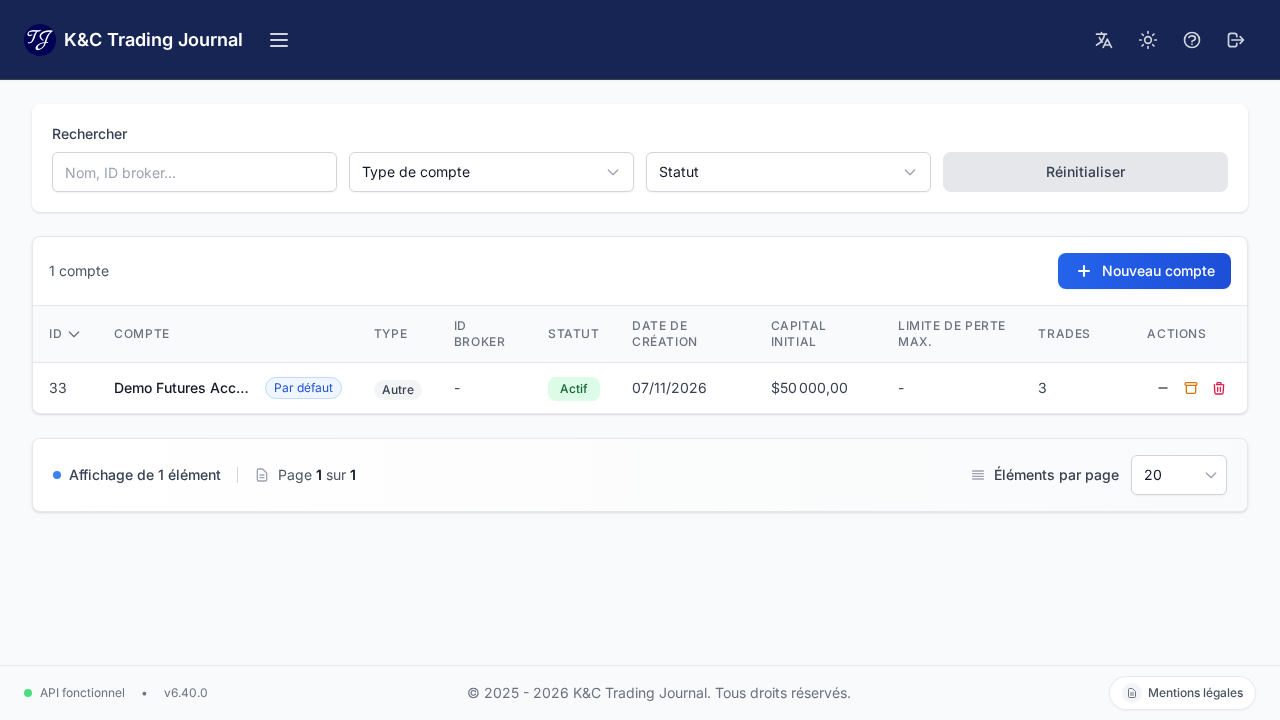
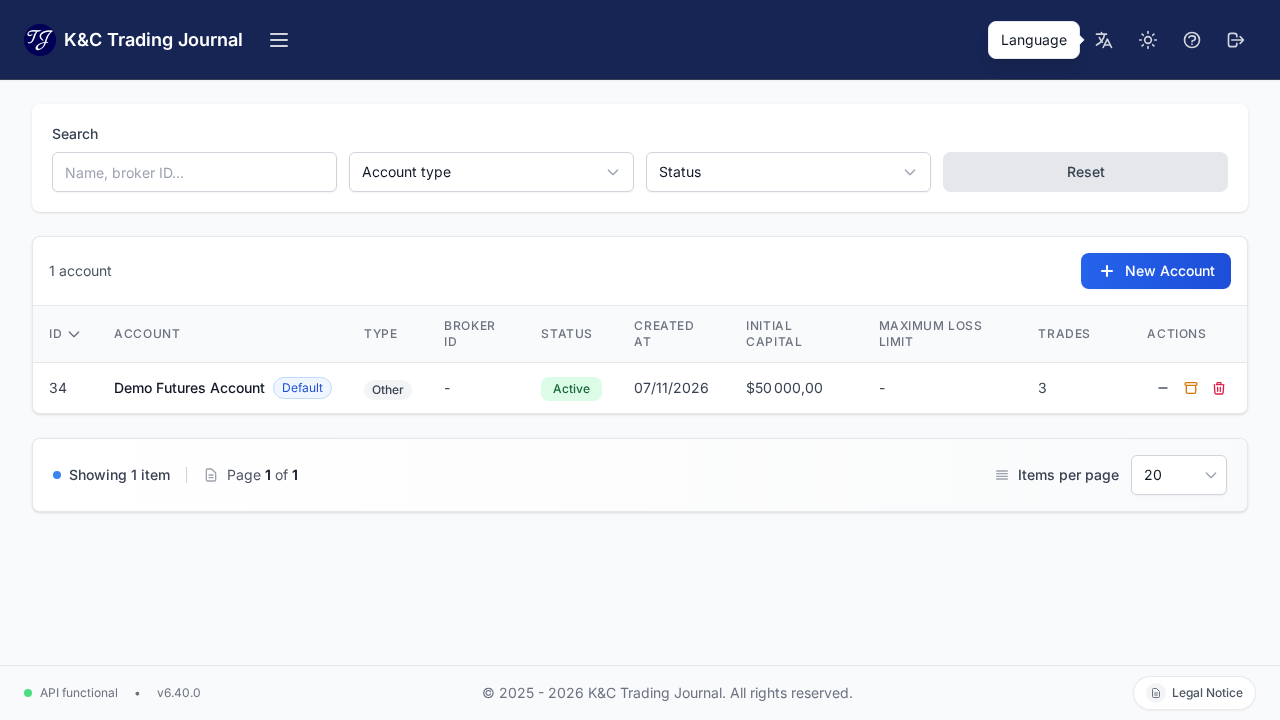
fix(help): Captures tutos liées à la langue UI
- Viewer : recharge l’image au changement de locale + fallback EN/FR
- Playwright : bascule réelle via le sélecteur Header (plus seulement ?lang=)
- Régénère les PNG FR/EN distincts pour getting-started

diff --git a/e2e/tests/tutorials/screenshots.spec.ts b/e2e/tests/tutorials/screenshots.spec.ts
@@ -13,6 +13,8 @@
  *        cd e2e && npm run tutorials:screenshots
  *
  * Sortie : frontend/public/tutorials/<locale>/<slug>-step-<n>.png
+ * Chaque locale est capturée après bascule réelle de la langue app (Header),
+ * pas seulement via ?lang= (écrasé par les préférences une fois connecté).
  */
 import fs from 'node:fs';
 import path from 'node:path';
@@ -25,33 +27,16 @@ const DEMO_PASSWORD =
 const repoRoot = path.resolve(__dirname, '../../..');
 const outRoot = path.join(repoRoot, 'frontend/public/tutorials');
 
-const LOCALES = ['fr', 'en'] as const;
+const LOCALES = [
+  { code: 'fr', label: 'Français' },
+  { code: 'en', label: 'English' },
+] as const;
 
-const STEPS: Array<{ slug: string; step: number; hash: string; ready: string }> = [
-  {
-    slug: 'getting-started',
-    step: 1,
-    hash: '#accounts',
-    ready: 'body',
-  },
-  {
-    slug: 'getting-started',
-    step: 2,
-    hash: '#trades',
-    ready: 'body',
-  },
-  {
-    slug: 'getting-started',
-    step: 3,
-    hash: '#dashboard',
-    ready: 'body',
-  },
-  {
-    slug: 'getting-started',
-    step: 4,
-    hash: '#daily-journal',
-    ready: 'body',
-  },
+const STEPS: Array<{ slug: string; step: number; hash: string }> = [
+  { slug: 'getting-started', step: 1, hash: '#accounts' },
+  { slug: 'getting-started', step: 2, hash: '#trades' },
+  { slug: 'getting-started', step: 3, hash: '#dashboard' },
+  { slug: 'getting-started', step: 4, hash: '#daily-journal' },
 ];
 
 async function dismissOverlays(page: import('@playwright/test').Page) {
@@ -83,34 +68,68 @@ async function login(page: import('@playwright/test').Page) {
   await dismissOverlays(page);
 }
 
+/** Bascule la langue via le sélecteur Header (persiste aussi côté préférences). */
+async function setUiLanguage(
+  page: import('@playwright/test').Page,
+  locale: (typeof LOCALES)[number]
+) {
+  const langButton = page.getByRole('button', { name: /Language|Langue|Idioma|Sprache/i }).first();
+  await langButton.click();
+  await page.getByRole('button', { name: locale.label }).click();
+  await page.waitForTimeout(800);
+  // Vérifie que i18n a bien basculé
+  const htmlLang = await page.evaluate(() => document.documentElement.lang || '');
+  // Certaines configs ne posent pas lang sur <html> ; on attend aussi un libellé UI
+  if (locale.code === 'en') {
+    await expect(page.getByRole('button', { name: /Help/i }).first()).toBeVisible({
+      timeout: 15_000,
+    });
+  } else {
+    await expect(page.getByRole('button', { name: /Aide/i }).first()).toBeVisible({
+      timeout: 15_000,
+    });
+  }
+  void htmlLang;
+}
+
 test.describe('Tutorials screenshots (manual)', () => {
   test('capture P0 getting-started FR+EN', async ({ page, browserName }) => {
     test.skip(browserName !== 'chromium', 'Captures Chromium only');
 
     await login(page);
 
+    const digestsByLocale: Record<string, string[]> = {};
+
     for (const locale of LOCALES) {
-      // Prefer URL lang when supported; otherwise change via preferences UI is heavy —
-      // we capture DOM in current locale and write under both folders with a note that
-      // EN may need a second pass after switching language in Settings.
-      const localeDir = path.join(outRoot, locale);
+      await setUiLanguage(page, locale);
+
+      const localeDir = path.join(outRoot, locale.code);
       fs.mkdirSync(localeDir, { recursive: true });
+      digestsByLocale[locale.code] = [];
 
       for (const step of STEPS) {
-        await page.goto(`/${locale === 'en' ? '?lang=en' : '?lang=fr'}${step.hash}`);
+        await page.goto(`/${step.hash}`);
         await page.waitForLoadState('networkidle');
-        await page.waitForTimeout(800);
+        await page.waitForTimeout(1000);
+        await dismissOverlays(page);
+
         const target = path.join(localeDir, `${step.slug}-step-${step.step}.png`);
         await page.screenshot({
           path: target,
           fullPage: false,
         });
         expect(fs.existsSync(target)).toBeTruthy();
+        digestsByLocale[locale.code].push(fs.readFileSync(target).toString('binary'));
       }
     }
 
-    // Hub aide (sanity)
-    await page.goto('/?lang=fr#help');
+    // Les jeux FR et EN ne doivent pas être identiques (UI localisée).
+    const frJoined = digestsByLocale.fr.join('|');
+    const enJoined = digestsByLocale.en.join('|');
+    expect(frJoined).not.toEqual(enJoined);
+
+    await setUiLanguage(page, LOCALES[0]);
+    await page.goto('/#help');
     await expect(page.getByTestId('help-page')).toBeVisible({ timeout: 30_000 });
     await page.getByTestId('help-card-getting-started').click();
     await expect(page.getByTestId('tutorial-viewer-getting-started')).toBeVisible();

diff --git a/frontend/src/components/help/TutorialViewer.tsx b/frontend/src/components/help/TutorialViewer.tsx
@@ -4,7 +4,7 @@ import {
   TutorialDef,
   TutorialProgressEntry,
   TutorialStatus,
-  tutorialImagePath,
+  tutorialImageCandidates,
 } from '../../tutorials/catalog';
 
 export interface TutorialViewerProps {
@@ -31,20 +31,27 @@ const TutorialViewer: React.FC<TutorialViewerProps> = ({
   );
   const [stepIndex, setStepIndex] = useState(initialIndex);
   const [imgFailed, setImgFailed] = useState(false);
+  const [imgCandidateIndex, setImgCandidateIndex] = useState(0);
+
+  const locale = i18n.language?.split('-')[0] || 'fr';
 
   useEffect(() => {
     setStepIndex(initialIndex);
   }, [tutorial.slug, initialIndex]);
 
+  // Recalcule les captures dès que la langue UI ou l’étape change
   useEffect(() => {
     setImgFailed(false);
-  }, [stepIndex, tutorial.slug]);
+    setImgCandidateIndex(0);
+  }, [stepIndex, tutorial.slug, locale]);
 
   const total = tutorial.steps.length;
   const step = tutorial.steps[stepIndex];
   const isLast = stepIndex >= total - 1;
-  const locale = i18n.language?.split('-')[0] || 'fr';
-  const imageSrc = step ? tutorialImagePath(locale, tutorial.slug, step.imageStep) : '';
+  const imageCandidates = step
+    ? tutorialImageCandidates(locale, tutorial.slug, step.imageStep)
+    : [];
+  const imageSrc = imageCandidates[imgCandidateIndex] || '';
 
   const markSeen = (nextIndex: number, status: TutorialStatus) => {
     onProgressChange({
@@ -91,6 +98,14 @@ const TutorialViewer: React.FC<TutorialViewerProps> = ({
     onClose();
   };
 
+  const handleImageError = () => {
+    if (imgCandidateIndex + 1 < imageCandidates.length) {
+      setImgCandidateIndex((index) => index + 1);
+      return;
+    }
+    setImgFailed(true);
+  };
+
   if (!step) {
     return null;
   }
@@ -131,16 +146,17 @@ const TutorialViewer: React.FC<TutorialViewerProps> = ({
 
       <div className="grid gap-4 lg:grid-cols-2 lg:items-start">
         <div className="rounded-xl border border-gray-200 dark:border-gray-700 bg-gray-50 dark:bg-gray-900/40 overflow-hidden min-h-[180px] flex items-center justify-center">
-          {imgFailed ? (
+          {imgFailed || !imageSrc ? (
             <p className="text-sm text-gray-500 dark:text-gray-400 p-6 text-center">
               {t('viewer.imagePlaceholder')}
             </p>
           ) : (
             <img
+              key={imageSrc}
               src={imageSrc}
               alt={t(altKey)}
               className="w-full h-auto object-contain max-h-[320px]"
-              onError={() => setImgFailed(true)}
+              onError={handleImageError}
             />
           )}
         </div>

diff --git a/frontend/src/tutorials/catalog.ts b/frontend/src/tutorials/catalog.ts
@@ -85,7 +85,25 @@ export function isP0Incomplete(progress: TutorialsProgress | null | undefined): 
   return status !== 'completed' && status !== 'skipped';
 }
 
+/** Locales pour lesquelles des captures dédiées sont générées (Playwright). */
+export const TUTORIAL_SHOT_LOCALES = ['fr', 'en'] as const;
+
 export function tutorialImagePath(locale: string, slug: string, stepNumber: number): string {
   const lang = (locale || 'fr').split('-')[0];
   return `/tutorials/${lang}/${slug}-step-${stepNumber}.png`;
+}
+
+/**
+ * Chemins image à tenter dans l’ordre : locale UI, puis EN, puis FR.
+ * Permet au viewer de suivre le changement de langue et de dégrader
+ * proprement si une locale n’a pas encore de captures.
+ */
+export function tutorialImageCandidates(
+  locale: string,
+  slug: string,
+  stepNumber: number
+): string[] {
+  const lang = (locale || 'fr').split('-')[0];
+  const ordered = [lang, 'en', 'fr'].filter((value, index, all) => all.indexOf(value) === index);
+  return ordered.map((code) => tutorialImagePath(code, slug, stepNumber));
 }

diff --git a/frontend/src/tutorials/catalog.test.ts b/frontend/src/tutorials/catalog.test.ts
@@ -5,6 +5,7 @@ import {
   TUTORIAL_BY_SLUG,
   getTutorialStatus,
   isP0Incomplete,
+  tutorialImageCandidates,
   tutorialImagePath,
 } from './catalog';
 
@@ -30,6 +31,17 @@ describe('tutorials catalog', () => {
   it('builds image paths', () => {
     expect(tutorialImagePath('fr-FR', 'getting-started', 2)).toBe(
       '/tutorials/fr/getting-started-step-2.png'
+    );
+  });
+
+  it('orders image candidates by UI locale then EN/FR fallback', () => {
+    expect(tutorialImageCandidates('es', 'getting-started', 1)).toEqual([
+      '/tutorials/es/getting-started-step-1.png',
+      '/tutorials/en/getting-started-step-1.png',
+      '/tutorials/fr/getting-started-step-1.png',
+    ]);
+    expect(tutorialImageCandidates('en', 'getting-started', 1)[0]).toBe(
+      '/tutorials/en/getting-started-step-1.png'
     );
   });
 });
